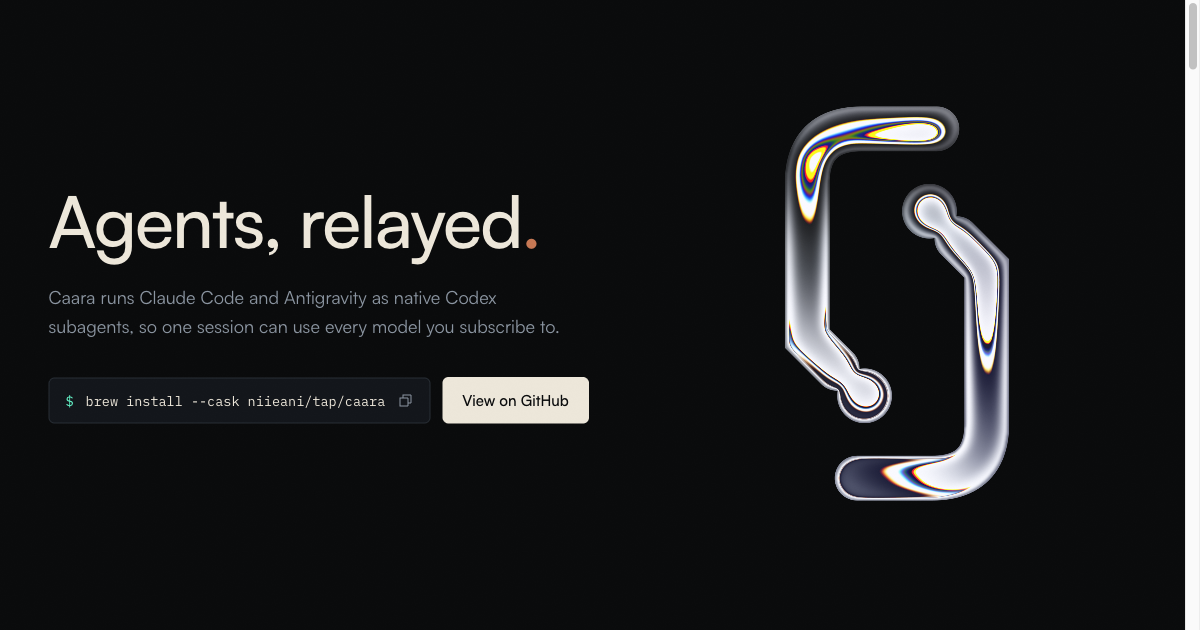
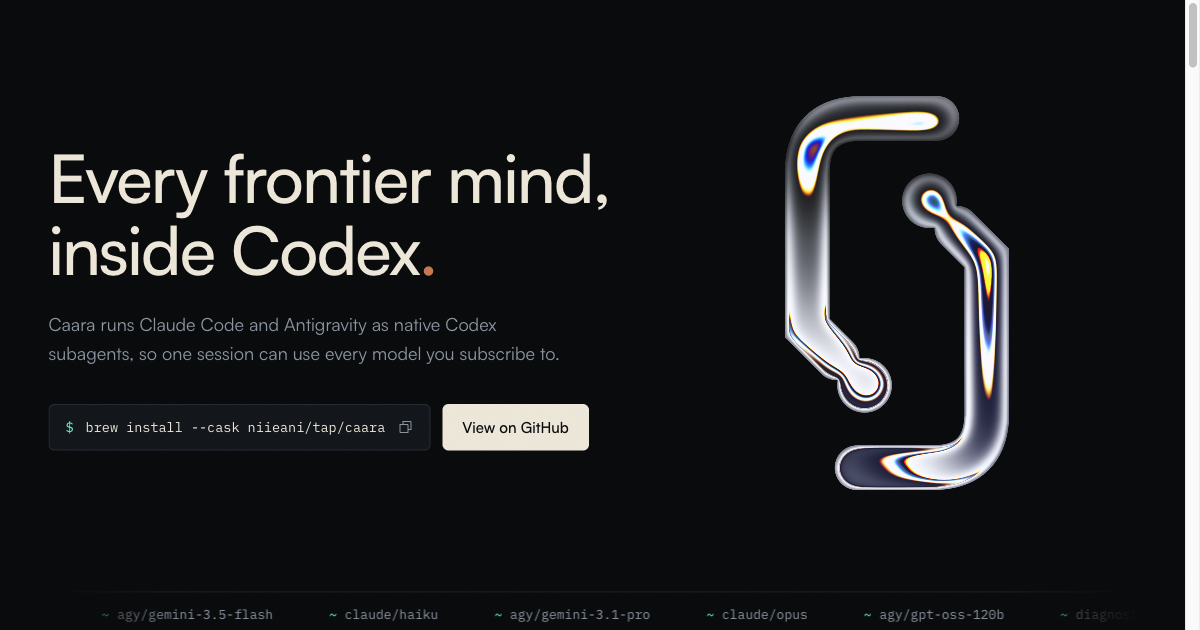
docs: new slogan, reordered sections, shader emblems on why cards
The hero and footer now read "Every frontier mind, inside Codex." and the
README tagline matches. The four-point why grid moves above the benchmark
section and each point gains a small animated paper-shader emblem in its own
hue: mint metaballs for pooled subscriptions, amber god rays for focusing
Fable, violet warped checks for cross-family review, and steel orbiting dots
for the local service. OG image regenerated from the new hero.

diff --git a/site/src/components/WhyIllustration.tsx b/site/src/components/WhyIllustration.tsx
@@ -1,0 +1,85 @@
+import { DotOrbit, GodRays, Metaballs, Warp } from "@paper-design/shaders-react";
+import { useEffect, useState } from "react";
+
+/**
+ * Small animated shader emblem for one "why" card, echoing the liquid-metal
+ * hero mark. Each kind carries its own symbol and hue family:
+ * pool (metaballs, mint): subscriptions merging into one pool of capacity;
+ * focus (god rays, amber): concentrating an expensive model where it counts;
+ * review (warp checks, violet): two model families interleaving over one diff;
+ * local (dot orbit, steel): a small self-contained system running on your machine.
+ */
+export type WhyIllustrationKind = "pool" | "focus" | "review" | "local";
+
+export default function WhyIllustration({ kind }: { kind: WhyIllustrationKind }) {
+  const [webglOk, setWebglOk] = useState(false);
+  const [reducedMotion, setReducedMotion] = useState(false);
+
+  useEffect(() => {
+    setWebglOk(document.createElement("canvas").getContext("webgl2") !== null);
+    setReducedMotion(matchMedia("(prefers-reduced-motion: reduce)").matches);
+  }, []);
+
+  if (!webglOk) return null;
+
+  const speed = (base: number) => (reducedMotion ? base * 0.15 : base);
+  const common = { className: "size-full", colorBack: "#00000000" } as const;
+
+  switch (kind) {
+    case "pool":
+      return (
+        <Metaballs
+          {...common}
+          colors={["#63f6c9", "#2ea183", "#9ef7dd", "#37d3a6"]}
+          count={10}
+          size={0.86}
+          scale={1}
+          speed={speed(0.7)}
+        />
+      );
+    case "focus":
+      return (
+        <GodRays
+          {...common}
+          colors={["#e8a063", "#c77854", "#f4c890"]}
+          colorBloom="#e8a063"
+          density={0.35}
+          spotty={0.3}
+          midIntensity={0.4}
+          midSize={0.2}
+          intensity={0.7}
+          bloom={0.4}
+          speed={speed(0.8)}
+        />
+      );
+    case "review":
+      return (
+        <Warp
+          className="size-full"
+          colors={["#14161f", "#8b9bf5", "#14161f", "#4a55c4"]}
+          shape="checks"
+          shapeScale={0.16}
+          proportion={0.45}
+          distortion={0.25}
+          swirl={0.8}
+          swirlIterations={10}
+          softness={1}
+          scale={0.4}
+          speed={speed(0.4)}
+        />
+      );
+    case "local":
+      return (
+        <DotOrbit
+          {...common}
+          colors={["#8fa8c0", "#5f7d9c", "#c7d6e4"]}
+          size={0.7}
+          sizeRange={0.3}
+          spreading={0.6}
+          stepsPerColor={2}
+          scale={0.55}
+          speed={speed(0.4)}
+        />
+      );
+  }
+}

diff --git a/README.md b/README.md
@@ -5,7 +5,7 @@
 
 **Run Claude Code and Antigravity as native Codex subagents.**
 
-Agents, relayed: one local bridge, every model you subscribe to.
+Every frontier mind, inside Codex: one local bridge for the agents you already subscribe to.
 
 [Website](https://niieani.github.io/caara/) · [Quickstart](#quickstart) ·
 [Spec](docs/caara.md) · [MIT License](LICENSE)
